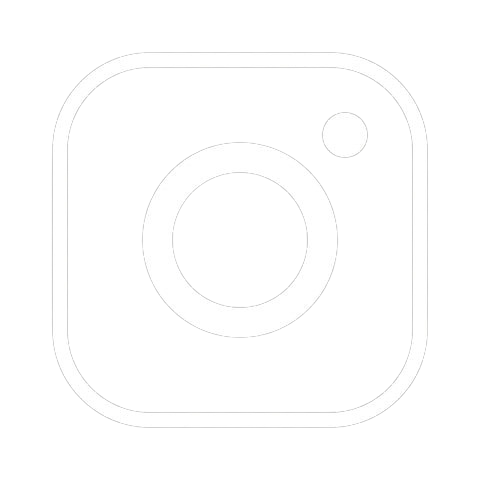
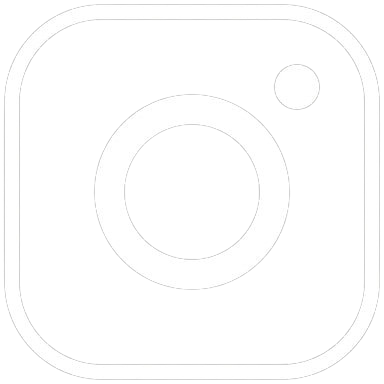
Made more layout adjustments. Still working on positioning of top section elements.

diff --git a/index.html b/index.html
@@ -11,13 +11,15 @@
 <body style="margin-bottom: 0;">
     <div class="top-section"> <!--Top section of the website-->
         <image src="Images/Iggy's Logo.png" class="logo" onclick="toMain()"></image>
-        <image src="Images/Instagram.png" class="top-section-image"></image>
-        <image src="Images/Facebook.jpg" class="top-section-image"></image>
+        <div>
+            <image src="Images/Instagram.png" class="top-section-image" onclick="toInstagram()"></image>
+            <image src="Images/Facebook.jpg" class="top-section-image" onclick="toFacebook()"></image>
+        </div>
     </div>
     <br>
     <hr style="width: 90%"></hr>
 
-    <div class="container" style="margin-top: 50px;"> <!--Image w/text block-->
+    <div class="container" style="margin-top: 9vh;"> <!--Image w/text block-->
         <img src="Images/Bar.jpg">
         <div class="text"><b>
             This is some text I put next to an image to develop element positioning skills. HTML demands not only the correct usage of margin/border/padding,
@@ -27,7 +29,7 @@
         </b></div>
     </div>
 
-    <div class="container" style="margin-top: 50px;"> <!--Image w/text block-->
+    <div class="container" style="margin-top: 9vh;"> <!--Image w/text block-->
         <img src="Images/Hockey.jpg">
         <div class="text"><b>
             This is some text I put next to an image to develop element positioning skills. HTML demands not only the correct usage of margin/border/padding,
@@ -37,7 +39,7 @@
         </b></div>
     </div>
     
-    <section class="beer-section" style="padding-bottom: 0px;"> <!-- Beer Section -->
+    <section class="beer-section"> <!-- Beer Section -->
         <div class="row">
             <div class="cell-format">
                 <img src="Images/Albino Stout Nitro.jpg">
@@ -152,7 +154,7 @@
                 </div>
             </div>
         </div>
-        <div class="row">
+        <div class="row" style="padding-bottom: 0vh;">
             <div class="cell-format">
                 <img src="Images/Ricky.jpg">
                 <div class="text">
@@ -175,12 +177,12 @@
     </section>
     
     <section style="background-color: rgb(60, 60, 60); padding-top: 2vw; padding-bottom: 2vw;">
-        <div class="container"> <!--Image w/text block-->
+        <div class="container" style="margin-right: 15%;"> <!--Image w/text block-->
             <iframe src="https://www.google.com/maps/embed?pb=!1m18!1m12!1m3!1d5978.532799411208!2d-81.7855508!3d41.4768239!2m3!1f0!2f0
             !3f0!3m2!1i1024!2i768!4f13.1!3m3!1m2!1s0x8830f204c9ca36e1%3A0x87134e524f4cf08b!2sIggy&#39;s%20Bar!5e0!3m2!1sen!2sus!4v171440
             3405209!5m2!1sen!2sus" class="map" style="border:0;" allowfullscreen="" loading="lazy" 
             referrerpolicy="no-referrer-when-downgrade"></iframe>
-            <div class="text" style="color: white;">
+            <div class="hours-location-text" style="color: white;">
                 <b>Madison Ave, Lakewood, OH 44107</b><br>
                 <br>
                 <p><b>Monday thru Thursday:</b> 4PM - 1AM </p>

diff --git a/Style.css b/Style.css
@@ -32,17 +32,22 @@ body {
     background-color:rgb(0, 0, 0);
     width: 100%;
     text-align: center;
-    padding-top: 1vw;
-    padding-bottom: 1vw;
+    /*padding-top: 1vw;
+    padding-bottom: 1vw;*/
     display: flex;
-    justify-content: center;
+    justify-content: space-between;
     align-items: center;
+    box-sizing: border-box;
+    padding: 0 20px;
 }
 
 .top-section .logo {
     height: auto;
-    max-height: 10vw;
-    display: inline-block;
+    max-height: 25vh;
+    display: flex;
+    justify-content: center;
+    align-items: center;
+    cursor: pointer;
 }
 
 .top-section-image {
@@ -51,6 +56,20 @@ body {
     position: relative;
     margin: 0.5vw;
     left: 30%;
+    background-color:rgb(0, 0, 0, 0);
+    transition: background-color .2s;
+    padding: 0.5vw;
+    opacity: 90%;
+    gap: 10px;
+    justify-content: flex-end;
+    display: flex;
+}
+
+.top-section-image:hover {
+    transform: scale(1.1);
+    background-color:rgb(30, 30, 30);
+    transition: transform 0.2s;
+    cursor: pointer;
 }
 
 .top-section-button {
@@ -152,11 +171,11 @@ body {
 
 .hours-location-text {
     vertical-align: top;
-    padding-left: 8vw;
+    padding-left: 4vh;
     padding-top: 60px;
     font-size: 1.5vw;
     font-family: "Futura";
-    line-height: 30px;
+    line-height: 5vh;
 }
 
 /* Body - Events Page */
@@ -179,7 +198,7 @@ select option.selected {
 .map {
     max-width: 100%;
     width: 33vw;
-    height: 33vw;
+    height: 75vh;
 }
 
 /* Body - Beer Section */
@@ -187,14 +206,18 @@ select option.selected {
 .beer-section {
     background-image: URL("Images/Iggy\'s\ Logo.png");
     background-position: center;
+    background-size: cover;
+    background-repeat: no-repeat;
     background-color: gray;
-    justify-content: space-between;
-    margin-top: 20px;
-    background-size: 100%;
+    width: 100%;
+    height: 100%;
+    margin-top: 5vh;
+    padding-top: 5vh;
+    padding-bottom: 5vh;
 }
 
 .beer-section img {
-    max-width: 100%;
+    max-width: 10vw;
     height: auto;
     box-sizing: border-box;
     border: 1.5px;
@@ -205,6 +228,7 @@ select option.selected {
 .beer-section .row {
     flex-direction: row;
     display: flex;
+    padding-bottom: 4vh;
 }
 
 .beer-section .cell-format {
@@ -224,17 +248,17 @@ select option.selected {
     font-size: 1.5vw;
     font-family: Futura;
     font-weight: bold;
+    color: black;
     line-height: 30px;
-    margin-top: 5px;
+    margin-top: 2vh;
     box-sizing: border-box;
 }
 
-.beer-secton .subtext {
+.beer-section .subtext {
     font-size: 1vw;
     font-family: Futura;
     font-weight: bold;
     line-height: 30px;
-    margin-top: 5px;
     box-sizing: border-box;
 }
 

diff --git a/experiment.js b/experiment.js
@@ -16,6 +16,18 @@ function toMain(){
     console.log("Finished!");
 }
 
+function toInstagram(){
+    console.log("Navigating...");
+    document.location = "https://www.instagram.com/iggysbar/";
+    console.log("Finished!");
+}
+
+function toFacebook(){
+    console.log("Navigating...");
+    document.location = "https://www.facebook.com/iggyslakewood/";
+    console.log("Finished!");
+}
+
 function increment(value) {
     value++;
     alert(value);
